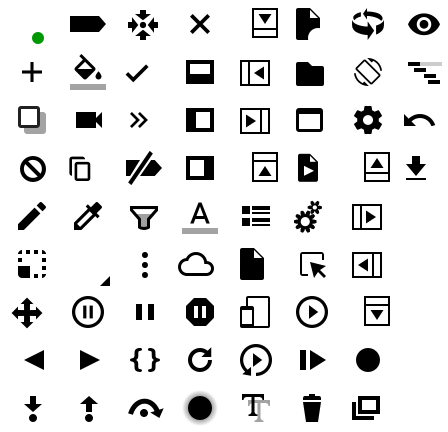
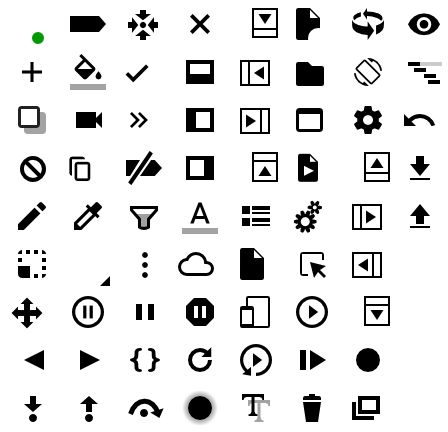
DevTools: Add 'Load profile' toolbar button to the performance panel
Drive-by: Fix Save profile button alignment
Commit-Queue: Alexei Filippov <alph@chromium.org>
Cr-Original-Commit-Position: refs/heads/master@{#488469}
Cr-Mirrored-From: https://chromium.googlesource.com/chromium/src
Cr-Mirrored-Commit: 8088b6220638213254268b1b9514bfc1b514a1d3

Changed region(s): [[0.9062, 0.4815, 0.9688, 0.5417], [0.9062, 0.3611, 0.9688, 0.4213], [0.3125, 0.6019, 0.3438, 0.6319]]

diff --git a/WebKit/Source/devtools/front_end/timeline/TimelinePanel.js b/WebKit/Source/devtools/front_end/timeline/TimelinePanel.js
@@ -225,10 +225,13 @@ Timeline.TimelinePanel = class extends UI.Panel {
     this._clearButton.addEventListener(UI.ToolbarButton.Events.Click, () => this._onClearButton());
     this._panelToolbar.appendToolbarItem(this._clearButton);
 
-    // Save
+    // Load / Save
+    this._loadButton = new UI.ToolbarButton(Common.UIString('Load profile...'), 'largeicon-load');
+    this._loadButton.addEventListener(UI.ToolbarButton.Events.Click, () => this._selectFileToLoad());
     this._saveButton = new UI.ToolbarButton(Common.UIString('Save profile...'), 'largeicon-download');
     this._saveButton.addEventListener(UI.ToolbarButton.Events.Click, () => this._saveToFile());
     this._panelToolbar.appendSeparator();
+    this._panelToolbar.appendToolbarItem(this._loadButton);
     this._panelToolbar.appendToolbarItem(this._saveButton);
 
     // History
@@ -592,6 +595,7 @@ Timeline.TimelinePanel = class extends UI.Panel {
     this._clearButton.setEnabled(this._state === state.Idle);
     this._panelToolbar.setEnabled(this._state !== state.Loading);
     this._dropTarget.setEnabled(this._state === state.Idle);
+    this._loadButton.setEnabled(this._state === state.Idle);
     this._saveButton.setEnabled(this._state === state.Idle && !!this._performanceModel);
   }
 

diff --git a/WebKit/Source/devtools/front_end/ui/Icon.js b/WebKit/Source/devtools/front_end/ui/Icon.js
@@ -185,6 +185,7 @@ UI.Icon.Descriptors = {
   'largeicon-hide-top-sidebar': {position: 'e6', spritesheet: 'largeicons', isMask: true},
   'largeicon-large-list': {position: 'e5', spritesheet: 'largeicons', isMask: true},
   'largeicon-layout-editor': {position: 'a4', spritesheet: 'largeicons', isMask: true},
+  'largeicon-load': {position: 'h5', spritesheet: 'largeicons', isMask: true},
   'largeicon-longclick-triangle': {position: 'b4', spritesheet: 'largeicons', isMask: true},
   'largeicon-menu': {position: 'c4', spritesheet: 'largeicons', isMask: true},
   'largeicon-navigator-domain': {position: 'd4', spritesheet: 'largeicons', isMask: true},
